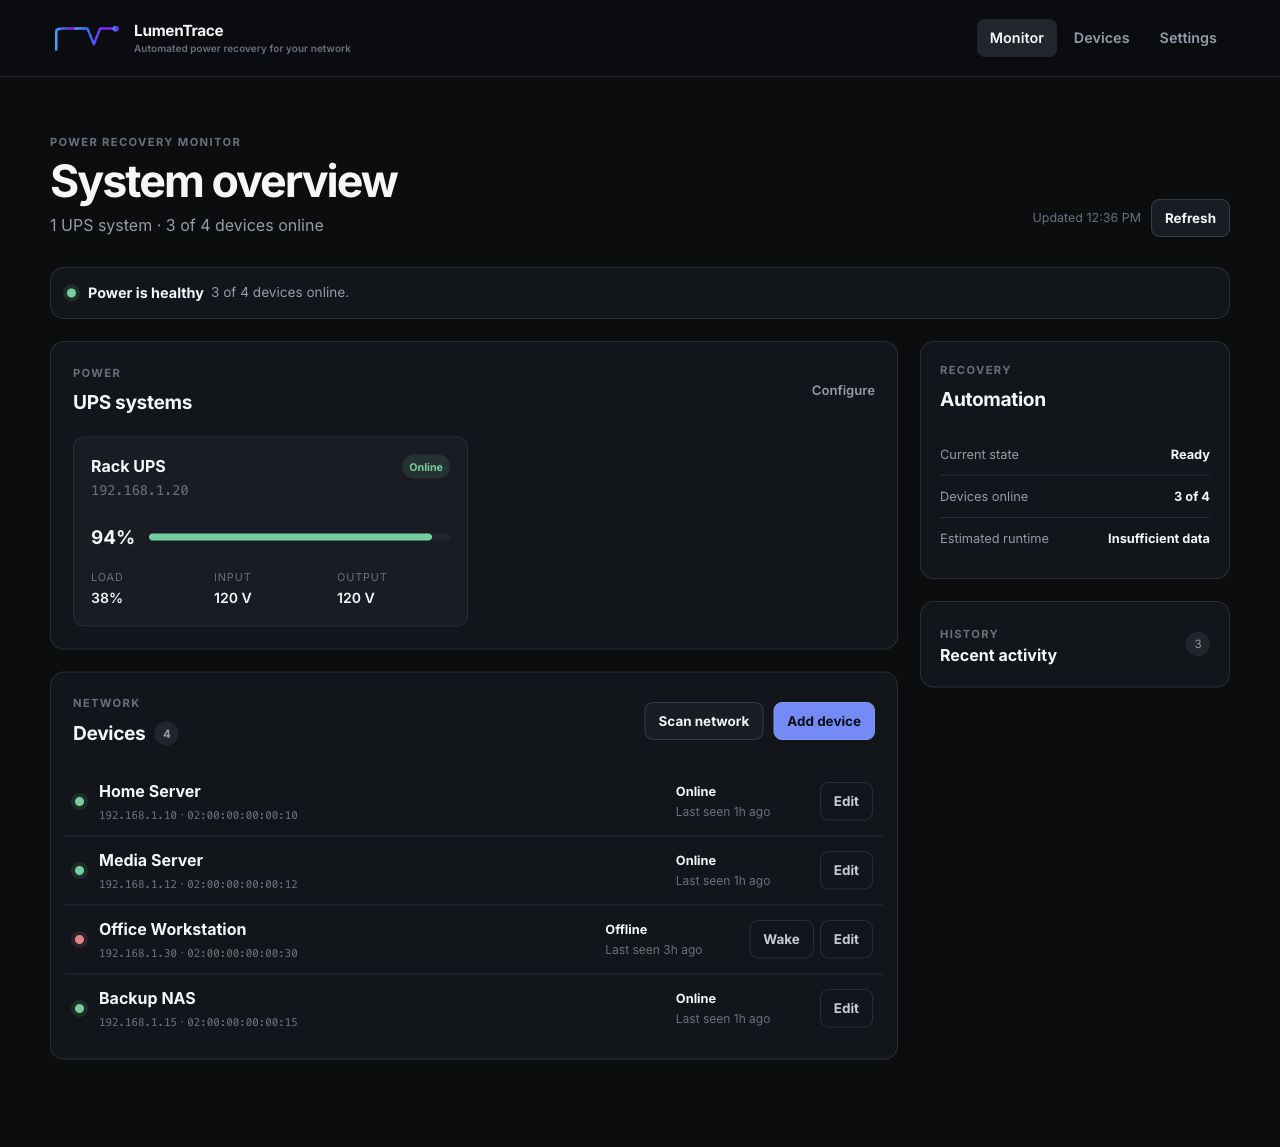
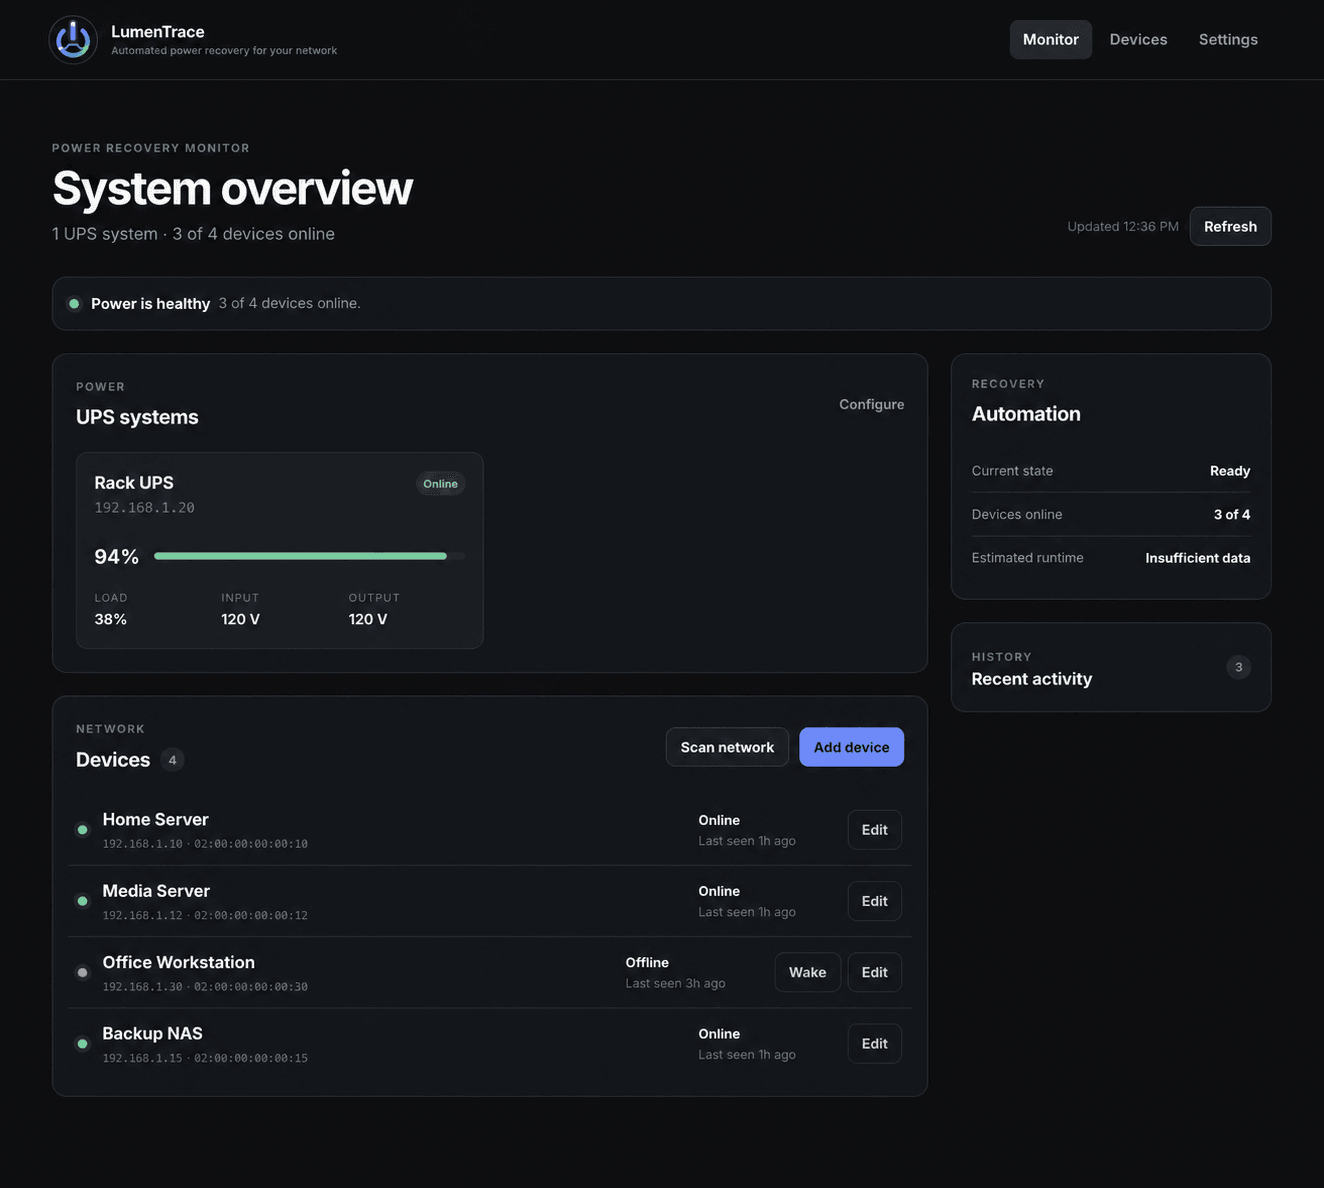
Release LumenTrace v2.0.1

diff --git a/static/css/app.css b/static/css/app.css
@@ -57,7 +57,7 @@ h3 { margin-bottom: 4px; font-size: 1rem; }
 .topbar { position: sticky; top: 0; z-index: 40; border-bottom: 1px solid rgba(39, 45, 54, .9); background: rgba(11, 13, 16, .9); backdrop-filter: blur(18px); }
 .topbar__inner { width: min(1180px, calc(100% - 40px)); height: 76px; margin: 0 auto; display: flex; align-items: center; justify-content: space-between; }
 .brand { display: inline-flex; align-items: center; gap: 12px; letter-spacing: -.02em; }
-.brand img { width: 72px; height: auto; flex: 0 0 auto; }
+.brand img { width: 46px; height: 46px; flex: 0 0 auto; }
 .brand__copy { display: grid; line-height: 1.15; }
 .brand__copy strong { font-size: .96rem; }
 .brand__copy small { margin-top: 4px; color: var(--subtle); font-size: .62rem; font-weight: 550; letter-spacing: .01em; }
@@ -245,7 +245,7 @@ input:focus { border-color: var(--accent); outline: none; box-shadow: 0 0 0 3px 
   .page-shell { padding-top: 34px; }
   .nav--desktop { display: none; }
   .brand { gap: 9px; }
-  .brand img { width: 58px; }
+  .brand img { width: 42px; height: 42px; }
   .brand__copy small { display: none; }
   .nav-toggle { width: 38px; height: 38px; padding: 9px; display: grid; align-content: center; gap: 4px; border-radius: 8px; }
   .nav-toggle span { height: 1px; display: block; background: currentColor; }

diff --git a/RELEASE_NOTES_v2.0.1.md b/RELEASE_NOTES_v2.0.1.md
@@ -1,0 +1,37 @@
+# LumenTrace v2.0.1
+
+LumenTrace v2.0.1 is a small visual and container-publishing update to the
+v2.0 release.
+
+## Highlights
+
+- A new power-circuit logo that remains clear at browser-icon and mobile sizes
+- Improved logo proportions in the application header
+- Docker images labeled with version, source, revision, license, and project links
+- Multi-platform images for `linux/amd64` and `linux/arm64`
+- SBOM and build-provenance attestations on automated releases
+
+## Docker images
+
+```text
+pwsmith1988/lumentrace:2.0.1
+pwsmith1988/lumentrace:2.0
+pwsmith1988/lumentrace:latest
+```
+
+## Upgrade
+
+```sh
+docker compose pull
+docker compose up -d
+docker compose logs --tail 100 lumentrace
+```
+
+This release does not change the stored data format or configuration. Existing
+v2.0.0 installations can be upgraded without migration.
+
+## Security reminder
+
+LumenTrace is designed for trusted local networks and does not provide built-in
+authentication. Do not expose port 5000 directly to the public internet. Use an
+authenticated HTTPS reverse proxy for remote access.

diff --git a/README.md b/README.md
@@ -73,7 +73,7 @@ the local network.
 ```yaml
 services:
   lumentrace:
-    image: pwsmith1988/lumentrace:2.0.0
+    image: pwsmith1988/lumentrace:2.0.1
     container_name: lumentrace
     restart: unless-stopped
     env_file: .env
@@ -214,6 +214,28 @@ Add these repository Actions secrets before pushing a release tag:
 
 - `DOCKERHUB_USERNAME`
 - `DOCKERHUB_TOKEN`
+
+Push a version tag to publish `linux/amd64` and `linux/arm64` images:
+
+```sh
+git tag v2.0.1
+git push origin v2.0.1
+```
+
+The workflow publishes `2.0.1`, `2.0`, and `latest` tags with image metadata,
+an SBOM, and build provenance.
+
+To publish directly from Docker Desktop instead, sign in and run:
+
+```sh
+docker buildx build \
+  --platform linux/amd64,linux/arm64 \
+  --build-arg VERSION=2.0.1 \
+  --tag pwsmith1988/lumentrace:2.0.1 \
+  --tag pwsmith1988/lumentrace:2.0 \
+  --tag pwsmith1988/lumentrace:latest \
+  --push .
+```
 
 ## Credits and license
 

diff --git a/CHANGELOG.md b/CHANGELOG.md
@@ -3,6 +3,16 @@
 All notable changes to LumenTrace are documented here. This project uses
 [Semantic Versioning](https://semver.org/).
 
+## [2.0.1] - 2026-07-22
+
+### Changed
+
+- Replaced the original line mark with a clearer power-circuit logo
+- Improved logo sizing in desktop and mobile navigation
+- Added OCI metadata to published container images
+- Added Docker build caching, SBOM generation, and provenance attestations
+- Documented both automatic and direct multi-platform Docker Hub publishing
+
 ## [2.0.0] - 2026-07-22
 
 ### Added